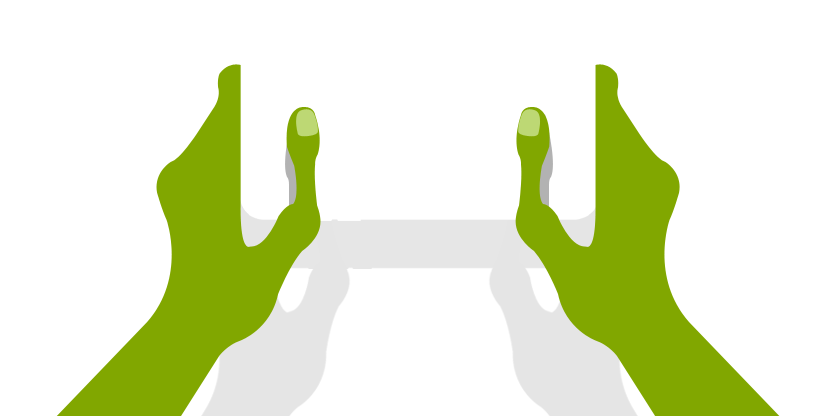
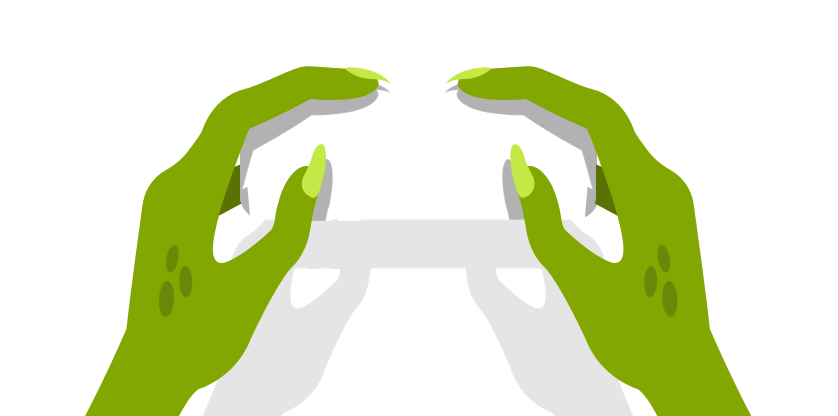
nnn

diff --git a/js/script.js b/js/script.js
@@ -35,8 +35,19 @@ $( window ).resize(function() {
 var rdmA = Math.floor(Math.random()*(9-0));
 var rdmB = Math.floor(Math.random()*(9-0));
 
-$('.section-story01 .ip-w .hand' + rdmA).show();
-$('.section-story01 .ip-b .hand' + rdmB).show();
+if ( rdmA != rdmB ) {
+    $('.section-story01 .ip-w .hand' + rdmA).show();
+    $('.section-story01 .ip-b .hand' + rdmB).show();
+} else {
+    $('.section-story01 .ip-w .hand' + rdmA).show();
+    if ( rdmA > 0 ) {
+        $('.section-story01 .ip-b .hand' + (rdmB-1) ).show();
+    } else {
+        $('.section-story01 .ip-b .hand' + (rdmB+1) ).show();
+    }    
+}
+
+
 
 // scroll
 
@@ -46,9 +57,9 @@ $( window ).scroll(function(){
     } else {
     $('.main-block .logo').fadeIn(1000)	
     };
-    if ( $(window).scrollTop() > $(window).height() / 2) {
-    $('.ip-w').css('margin-left', $(window).scrollTop() / 3+'px');
-    $('.ip-b').css('margin-right', $(window).scrollTop() / 3+'px')
+    if ( $(window).scrollTop() > $(window).height() / 1.7) {
+    $('.ip-w').css('margin-left', $(window).scrollTop() / -3+'px');
+    $('.ip-b').css('margin-right', $(window).scrollTop() / -3+'px')
     }
 });
 

diff --git a/css/style.css b/css/style.css
@@ -148,11 +148,11 @@ p {
 }
 
 .section-story01 .ip-w {
-	left: -10%;
+	left: 15%;
 }
 
 .section-story01 .ip-b {
-	right: -10%;
+	right: 15%;
 }
 
 .section-story01 .hands {
@@ -164,7 +164,7 @@ p {
 
 
 .section-story02 {
-	background-color: #ccc;
+	background-color: #999;
 	color:#fff;
 }
 
